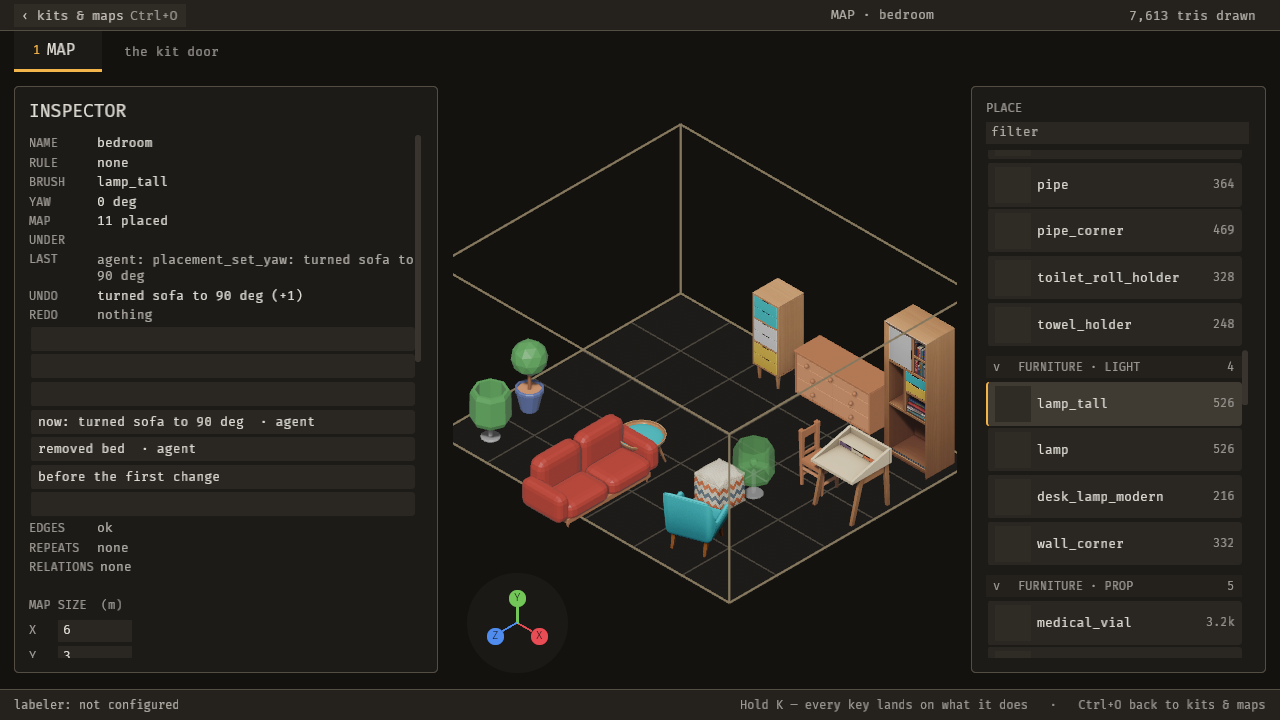
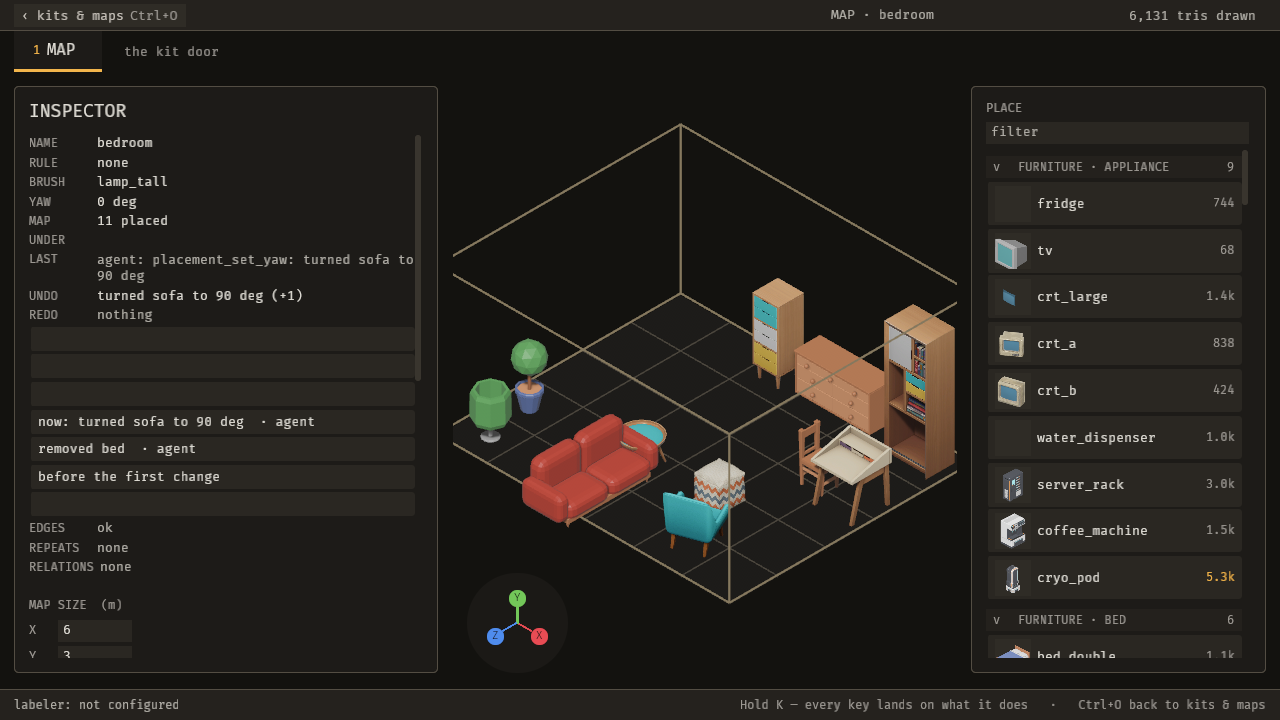
docs(media): the eight standing demos and editor.png re-recorded on the editor with the gooey refusal toast
Every one passes tools/demo/check.py and was looked at on its contact sheet; Captured is now this commit's parent. render.py fits a caption to the frame (22 px down to 12) because DejaVu Sans Mono, which the keycaps now use on Linux, is wider than PIL's default face and cut the longer captions off at the right edge (unit test). place_and_undo and review_labels need a warmed editor (a fresh one crashes on the first capture, see the bug filed this pass) and each is recorded on an editor no earlier storyboard has edited.

diff --git a/tools/demo/render.py b/tools/demo/render.py
@@ -160,9 +160,18 @@ class Renderer:
         caption = last_before(self.events, ("caption",), t)
         if caption:
             d2 = ImageDraw.Draw(out)
-            d2.text((20, self.height + (CAPTION_BAR - 26) // 2), caption["text"],
-                    font=self.font_caption, fill=INK)
+            font = self.caption_font(d2, caption["text"])
+            d2.text((20, self.height + (CAPTION_BAR - 26) // 2), caption["text"], font=font, fill=INK)
         return out
+
+    def caption_font(self, draw, text):
+        """The caption face at the largest size (22 down to 12) at which the text fits the frame's width, so a
+        long caption is smaller rather than cut off at the right edge."""
+        for size in range(22, 11, -1):
+            font = self.font_caption if size == 22 else load_font(size)
+            if draw.textlength(text, font=font) <= self.width - 40:
+                return font
+        return load_font(12)
 
     def title(self, text):
         out = Image.new("RGB", (self.width, self.height + CAPTION_BAR), BAR)

diff --git a/tools/demo/test_render.py b/tools/demo/test_render.py
@@ -32,5 +32,17 @@ class TheGifEndsAfterTheLastEvent(unittest.TestCase):
         self.assertAlmostEqual(render.timeline_end(r, settle=0.5), 4.0)
 
 
+class ACaptionIsFittedToTheFrame(unittest.TestCase):
+    def test_a_long_caption_takes_a_smaller_face_and_a_short_one_keeps_the_full_size(self):
+        from PIL import Image, ImageDraw
+        r = render.Renderer({"fps": 15, "frames": [{"t": 0.0, "path": "f.png"}], "events": [], "scale": 1, "crop": [0, 0, 600, 400]}, 600)
+        draw = ImageDraw.Draw(Image.new("RGB", (600, 100)))
+        long = "person: filters the PLACE list to the sofa, arms it"
+        self.assertEqual(r.caption_font(draw, "person: Ctrl+Z"), r.font_caption)
+        fitted = r.caption_font(draw, long)
+        self.assertLessEqual(draw.textlength(long, font=fitted), 600 - 40)
+        self.assertNotEqual(fitted, r.font_caption)
+
+
 if __name__ == "__main__":
     unittest.main()

diff --git a/docs/media/README.md b/docs/media/README.md
@@ -4,15 +4,15 @@ The README's and the guide's GIFs, recorded from the running editor by a storybo
 
 | File | Command | Captured | Shows |
 |---|---|---|---|
-| `agent-drives.gif` | `python3 tools/demo/record.py tools/demo/storyboards/agent_drives.json --port 15710 --project <project>`, then `python3 tools/demo/render.py <project>/target/loop/demo/agent_drives/events.json --out docs/media/agent-drives.gif --width 600` | 2026-11-02 39573f2f | the 3D view of the bedroom: an agent removes the bed and turns the sofa 90 degrees, then Ctrl+Z takes back the turn and the removal |
-| `agent-removes-then-undo.gif` | `python3 tools/demo/record.py tools/demo/storyboards/agent_removes_then_undo.json --port 15710 --project <project>`, then `python3 tools/demo/render.py <project>/target/loop/demo/agent_removes_then_undo/events.json --out docs/media/agent-removes-then-undo.gif --width 600` | 2026-11-02 39573f2f | an agent removes the bed with `placement_remove`, then Ctrl+Z puts it back |
-| `build-a-map.gif` | `python3 tools/demo/record.py tools/demo/storyboards/build_a_map.json --port 15710 --project <project>`, then `python3 tools/demo/render.py <project>/target/loop/demo/build_a_map/events.json --out docs/media/build-a-map.gif --width 760` | 2026-11-02 39573f2f | the PLACE list filtered to the sofa and the sofa armed, R turns it, a click places it, X and a click remove it, Ctrl+Z puts it back |
-| `frame-the-map.gif` | `python3 tools/demo/record.py tools/demo/storyboards/frame_the_map.json --port 15710 --project <project>`, then `python3 tools/demo/render.py <project>/target/loop/demo/frame_the_map/events.json --out docs/media/frame-the-map.gif --width 520` | 2026-11-02 39573f2f | the view zoomed in on one corner of the bedroom, then Home frames the whole 6 x 5 m room |
-| `hero.gif` | `python3 tools/demo/record.py tools/demo/storyboards/hero.json --port 15710 --project <project>`, then `python3 tools/demo/render.py <project>/target/loop/demo/hero/events.json --out docs/media/hero.gif --width 600` | 2026-11-02 d39a7e29 | Ctrl+\ arms the snip tool, a box is dragged round the bed with the note `remove the bed`, the agent reads the snip and removes the bed, Ctrl+Z puts it back |
-| `move-the-camera.gif` | `python3 tools/demo/record.py tools/demo/storyboards/move_the_camera.json --port 15710 --project <project>`, then `python3 tools/demo/render.py <project>/target/loop/demo/move_the_camera/events.json --out docs/media/move-the-camera.gif --width 600` | 2026-11-02 39573f2f | A and D tap the camera left and right over the bedroom |
-| `place-and-undo.gif` | `python3 tools/demo/record.py tools/demo/storyboards/place_and_undo.json --port 15710 --project <project>`, then `python3 tools/demo/render.py <project>/target/loop/demo/place_and_undo/events.json --out docs/media/place-and-undo.gif --width 760` | 2026-11-02 39573f2f | the PLACE list filtered to the sofa and the sofa armed, a click places it on the floor, Ctrl+Z takes it back |
-| `review-labels.gif` | `python3 tools/demo/record.py tools/demo/storyboards/review_labels.json --port 15710 --project <project>`, then `python3 tools/demo/render.py <project>/target/loop/demo/review_labels/events.json --out docs/media/review-labels.gif --width 900` | 2026-11-02 39573f2f | an agent lists the pieces a model labelled, the editor crosses to the kit door's Meshes tab, the arrow keys walk the piece list, and the labels row reads confidence high, the model and the date |
-| `editor.png` | `import -window root -crop 1280x720+0+0 docs/media/editor.png` on the Xvfb display, with the editor on the bedroom map, the view framed `[-2.6, -2.1, 2.6, 2.1]` by `grimoire_frame_view`, then `placement_remove bed` and `placement_set_yaw sofa 90` through MCP (`tools/demo/record.py`'s `McpClient`) | 2026-11-02 39573f2f | the whole editor window after those two agent changes: BRUSH reads `lamp_tall`, MAP reads 11 placed, the inspector's LAST line, UNDO and history list name the two changes as the agent's, and the PLACE palette lists the furniture kit with `lamp_tall` highlighted |
+| `agent-drives.gif` | `python3 tools/demo/record.py tools/demo/storyboards/agent_drives.json --port 15710 --project <project>`, then `python3 tools/demo/render.py <project>/target/loop/demo/agent_drives/events.json --out docs/media/agent-drives.gif --width 600` | 2026-11-02 27679ae4 | the 3D view of the bedroom: an agent removes the bed and turns the sofa 90 degrees, then Ctrl+Z takes back the turn and the removal |
+| `agent-removes-then-undo.gif` | `python3 tools/demo/record.py tools/demo/storyboards/agent_removes_then_undo.json --port 15710 --project <project>`, then `python3 tools/demo/render.py <project>/target/loop/demo/agent_removes_then_undo/events.json --out docs/media/agent-removes-then-undo.gif --width 600` | 2026-11-02 27679ae4 | an agent removes the bed with `placement_remove`, then Ctrl+Z puts it back |
+| `build-a-map.gif` | `python3 tools/demo/record.py tools/demo/storyboards/build_a_map.json --port 15710 --project <project>`, then `python3 tools/demo/render.py <project>/target/loop/demo/build_a_map/events.json --out docs/media/build-a-map.gif --width 760` | 2026-11-02 27679ae4 | the PLACE list filtered to the sofa and the sofa armed, R turns it, a click places it, X and a click remove it, Ctrl+Z puts it back |
+| `frame-the-map.gif` | `python3 tools/demo/record.py tools/demo/storyboards/frame_the_map.json --port 15710 --project <project>`, then `python3 tools/demo/render.py <project>/target/loop/demo/frame_the_map/events.json --out docs/media/frame-the-map.gif --width 520` | 2026-11-02 27679ae4 | the view zoomed in on one corner of the bedroom, then Home frames the whole 6 x 5 m room |
+| `hero.gif` | `python3 tools/demo/record.py tools/demo/storyboards/hero.json --port 15710 --project <project>`, then `python3 tools/demo/render.py <project>/target/loop/demo/hero/events.json --out docs/media/hero.gif --width 600` | 2026-11-02 27679ae4 | Ctrl+\ arms the snip tool, a box is dragged round the bed with the note `remove the bed`, the agent reads the snip and removes the bed, Ctrl+Z puts it back |
+| `move-the-camera.gif` | `python3 tools/demo/record.py tools/demo/storyboards/move_the_camera.json --port 15710 --project <project>`, then `python3 tools/demo/render.py <project>/target/loop/demo/move_the_camera/events.json --out docs/media/move-the-camera.gif --width 600` | 2026-11-02 27679ae4 | A and D tap the camera left and right over the bedroom |
+| `place-and-undo.gif` | `python3 tools/demo/record.py tools/demo/storyboards/place_and_undo.json --port 15710 --project <project>`, then `python3 tools/demo/render.py <project>/target/loop/demo/place_and_undo/events.json --out docs/media/place-and-undo.gif --width 760` | 2026-11-02 27679ae4 | the PLACE list filtered to the sofa and the sofa armed, a click places it on the floor, Ctrl+Z takes it back |
+| `review-labels.gif` | `python3 tools/demo/record.py tools/demo/storyboards/review_labels.json --port 15710 --project <project>`, then `python3 tools/demo/render.py <project>/target/loop/demo/review_labels/events.json --out docs/media/review-labels.gif --width 900` | 2026-11-02 27679ae4 | an agent lists the pieces a model labelled, the editor crosses to the kit door's Meshes tab, the arrow keys walk the piece list, and the labels row reads confidence high, the model and the date |
+| `editor.png` | `import -window root -crop 1280x720+0+0 docs/media/editor.png` on the Xvfb display, with the editor on the bedroom map, the view framed `[-2.6, -2.1, 2.6, 2.1]` by `grimoire_frame_view`, then `placement_remove bed` and `placement_set_yaw sofa 90` through MCP (`tools/demo/record.py`'s `McpClient`) | 2026-11-02 27679ae4 | the whole editor window after those two agent changes: BRUSH reads `lamp_tall`, MAP reads 11 placed, the inspector's LAST line, UNDO and the history list name the two changes as the agent's, the room is drawn without the bed and with the sofa turned, and the PLACE palette starts the furniture kit at its appliance group |
 
 ## Art
 
